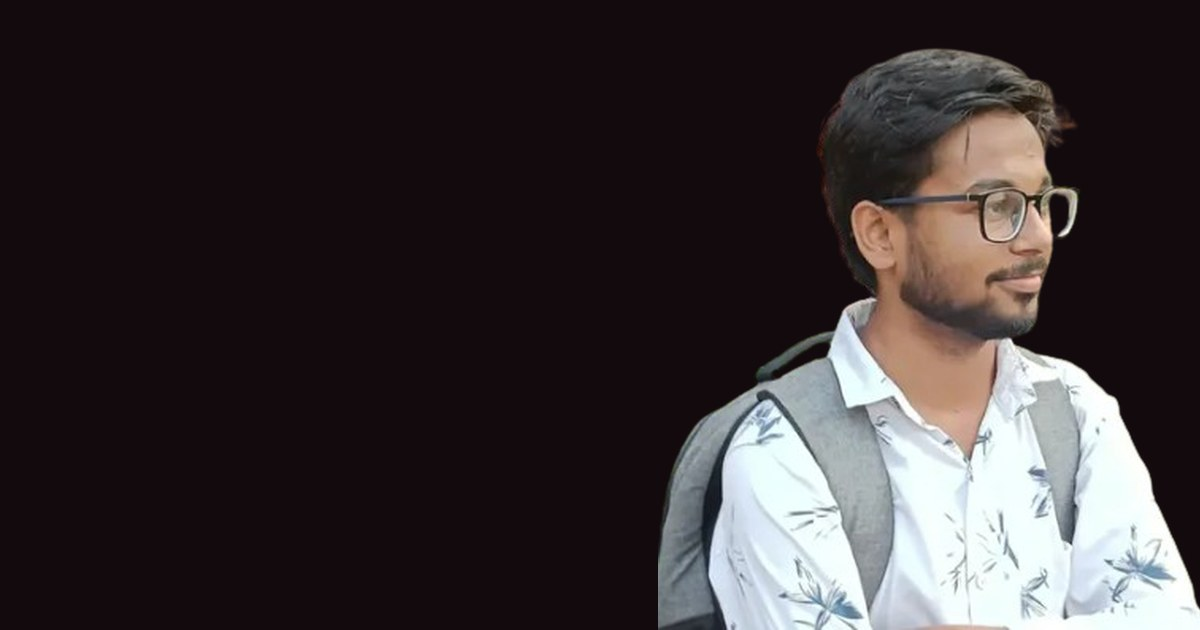
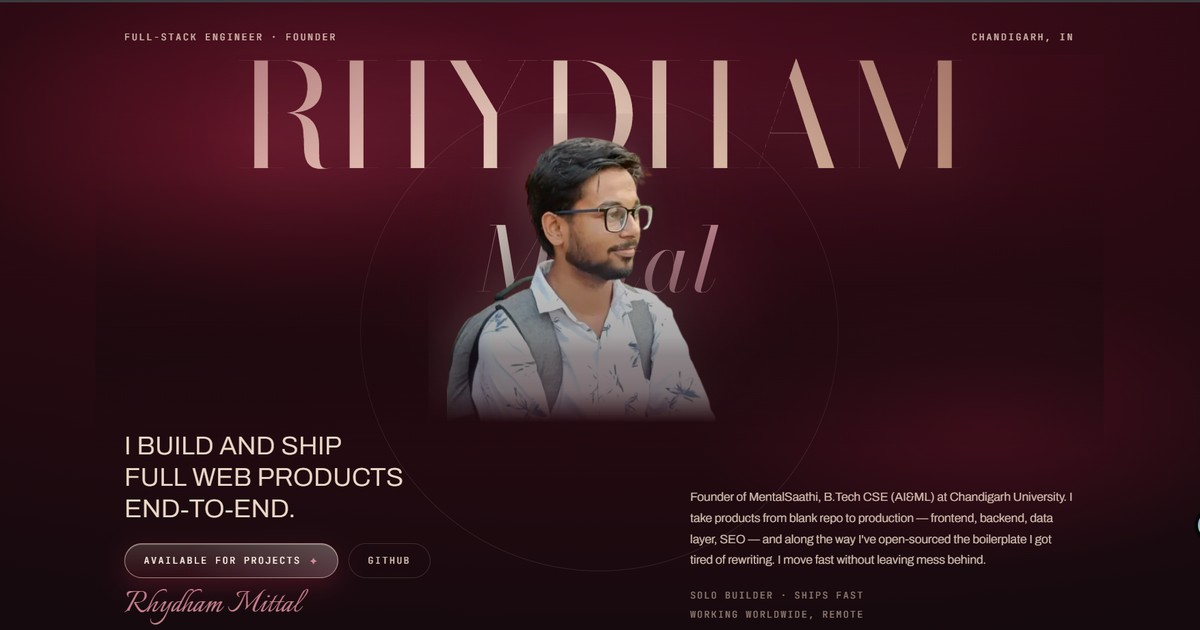
Top-notch SEO + performance pass, WhatsApp contact everywhere
- Replace all mailto: links with WhatsApp click-to-chat (wa.me) links
- Add ContactPoint (WhatsApp) and rel=me identity links to structured data
- Preload + fetchpriority=high on the LCP hero image, explicit width/height on all images to prevent CLS
- Lazy-load below-the-fold images, compress MentalSaathi/CollabFluenz screenshots from ~2MB/430KB PNGs to ~45KB JPEGs
- Add llms.txt for AI search crawlers, update OG share image to the real hero screenshot

diff --git a/index.html b/index.html
@@ -56,6 +56,12 @@
     "@type": "CollegeOrUniversity",
     "name": "Chandigarh University"
   },
+  "contactPoint": {
+    "@type": "ContactPoint",
+    "contactType": "sales",
+    "url": "https://wa.me/917657971009",
+    "availableLanguage": ["English", "Hindi"]
+  },
   "sameAs": [
     "https://github.com/rhydham-mittal27",
     "https://linkedin.com/in/rhydhammittal27"
@@ -67,6 +73,7 @@
 <link rel="preconnect" href="https://fonts.googleapis.com" />
 <link rel="preconnect" href="https://fonts.gstatic.com" crossorigin="" />
 <link href="https://fonts.googleapis.com/css2?family=Bodoni+Moda:ital,opsz,wght@0,6..96,400;0,6..96,500;1,6..96,400&family=Archivo:wght@300;400;500;600&family=Italianno&family=JetBrains+Mono:wght@400&display=swap" rel="stylesheet" />
+<link rel="preload" as="image" href="assets/rhydham-hero.png" fetchpriority="high">
 <style>
   * { box-sizing: border-box; }
   html, body { margin: 0; padding: 0; }
@@ -143,7 +150,7 @@
 
       <div style="position:relative;height:clamp(260px,38vw,430px);margin-top:clamp(6px,1vw,14px)">
         <div data-sd="" aria-hidden="true" style="position:absolute;left:50%;bottom:-6%;transform:translateX(-50%);width:min(620px,74%);height:86%;border-radius:50%;background:radial-gradient(50% 50% at 50% 55%, rgba(233,168,178,0.42) 0%, rgba(150,34,62,0.28) 42%, transparent 74%);filter:blur(22px);z-index:2;animation:glowPulse 7s ease-in-out infinite"></div>
-        <img src="assets/rhydham-hero.png" alt="Rhydham Mittal" class="portrait-img" />
+        <img src="assets/rhydham-hero.png" alt="Rhydham Mittal, full-stack engineer" class="portrait-img" width="392" height="397" fetchpriority="high" decoding="async" />
         <div aria-hidden="true" style="position:absolute;top:0;bottom:calc(-1 * clamp(18px,3vw,34px));left:calc(-1 * clamp(18px,3vw,34px));right:calc(-1 * clamp(18px,3vw,34px));background:linear-gradient(180deg, rgba(74,13,30,0.2) 0%, rgba(21,10,14,0) 30%, rgba(18,10,13,0.42) 76%, rgba(18,10,13,0.22) 90%, rgba(18,10,13,0) 100%);z-index:4;pointer-events:none"></div>
         <h1 data-sd="" class="hero-title" style="position:absolute;left:0;right:0;top:0;margin:0;z-index:2;font-family:'Bodoni Moda',serif;font-weight:400;font-size:clamp(56px,13.2vw,168px);line-height:0.86;letter-spacing:-0.01em;text-align:center;background:linear-gradient(104deg,#b98b74 0%,#f6e3d2 22%,#fffaf4 34%,#e9c6ab 48%,#c98e8f 66%,#f4ddc9 82%,#b0806c 100%);background-size:260% 100%;-webkit-background-clip:text;background-clip:text;color:transparent;-webkit-text-fill-color:transparent;animation:sheen 9s linear infinite, sdTitleOut linear both;animation-timeline:auto, scroll(root);animation-range:normal, 0 72vh;filter:drop-shadow(0 10px 40px rgba(214,138,155,0.28))">RHYDHAM<br /><span style="font-style:italic;font-size:0.62em;letter-spacing:0.02em;background:linear-gradient(112deg,#f6dfd0 0%,#fffaf4 26%,#e2a7b1 58%,#c07c8c 100%);-webkit-background-clip:text;background-clip:text;-webkit-text-fill-color:transparent;color:transparent">Mittal</span></h1>
       </div>
@@ -152,8 +159,8 @@
         <div>
           <p style="margin:0;font-size:clamp(19px,2.5vw,30px);line-height:1.22;letter-spacing:0.01em;color:#eddac9;text-transform:uppercase;text-wrap:pretty">I build and ship<br />full web products<br />end&#8209;to&#8209;end.</p>
           <div style="display:flex;flex-wrap:wrap;gap:12px;margin-top:clamp(14px,2vw,22px)">
-            <a href="mailto:rhydham937@gmail.com" class="hero-btn" style="position:relative;overflow:hidden;display:inline-flex;align-items:center;gap:10px;border:1px solid rgba(240,214,196,0.55);border-radius:999px;padding:12px 22px;font-family:'JetBrains Mono',monospace;font-size:11px;letter-spacing:0.16em;color:#fdf1e6;background:linear-gradient(100deg,rgba(255,255,255,0) 0%,rgba(255,255,255,0.22) 42%,rgba(255,255,255,0) 68%),linear-gradient(180deg,rgba(255,232,214,0.16),rgba(92,17,35,0.35));background-size:220% 100%,100% 100%;box-shadow:inset 0 1px 0 rgba(255,245,235,0.35),0 10px 28px rgba(150,34,62,0.35);animation:sheen 4.5s linear infinite;transition:box-shadow .4s,transform .4s">AVAILABLE FOR PROJECTS <span style="color:#d98a9b">&#10022;</span></a>
-            <a href="https://github.com/rhydham-mittal27" class="gh-btn" style="display:inline-flex;align-items:center;border:1px solid rgba(227,201,182,0.18);border-radius:999px;padding:12px 22px;font-family:'JetBrains Mono',monospace;font-size:11px;letter-spacing:0.16em;color:rgba(238,216,199,0.9)">GITHUB</a>
+            <a href="https://wa.me/917657971009?text=Hi%20Rhydham%2C%20I%20found%20your%20portfolio%20and%20I%27d%20like%20to%20talk%20about%20a%20project." target="_blank" rel="noopener" class="hero-btn" style="position:relative;overflow:hidden;display:inline-flex;align-items:center;gap:10px;border:1px solid rgba(240,214,196,0.55);border-radius:999px;padding:12px 22px;font-family:'JetBrains Mono',monospace;font-size:11px;letter-spacing:0.16em;color:#fdf1e6;background:linear-gradient(100deg,rgba(255,255,255,0) 0%,rgba(255,255,255,0.22) 42%,rgba(255,255,255,0) 68%),linear-gradient(180deg,rgba(255,232,214,0.16),rgba(92,17,35,0.35));background-size:220% 100%,100% 100%;box-shadow:inset 0 1px 0 rgba(255,245,235,0.35),0 10px 28px rgba(150,34,62,0.35);animation:sheen 4.5s linear infinite;transition:box-shadow .4s,transform .4s">AVAILABLE FOR PROJECTS <span style="color:#d98a9b">&#10022;</span></a>
+            <a href="https://github.com/rhydham-mittal27" rel="me" class="gh-btn" style="display:inline-flex;align-items:center;border:1px solid rgba(227,201,182,0.18);border-radius:999px;padding:12px 22px;font-family:'JetBrains Mono',monospace;font-size:11px;letter-spacing:0.16em;color:rgba(238,216,199,0.9)">GITHUB</a>
           </div>
           <div style="font-family:Italianno,cursive;font-size:clamp(30px,4vw,44px);color:#c9808f;margin-top:10px;line-height:1">Rhydham Mittal</div>
         </div>
@@ -183,7 +190,7 @@
             </div>
           </div>
           <div style="aspect-ratio:4/3;overflow:hidden;border-radius:2px;box-shadow:inset 0 1px 0 rgba(255,245,235,0.18);position:relative">
-            <img src="assets/mentalsaathi-screenshot.png" alt="MentalSaathi homepage" style="width:100%;height:100%;object-fit:cover;object-position:top center;filter:saturate(1.05) contrast(1.03)" />
+            <img src="assets/mentalsaathi-screenshot.jpg" alt="MentalSaathi peer-support wellness platform homepage screenshot" width="960" height="478" loading="lazy" decoding="async" style="width:100%;height:100%;object-fit:cover;object-position:top center;filter:saturate(1.05) contrast(1.03)" />
             <div aria-hidden="true" style="position:absolute;inset:0;background:linear-gradient(180deg,rgba(18,10,13,0) 60%,rgba(18,10,13,0.55) 100%)"></div>
             <span style="position:absolute;left:10px;bottom:8px;font-family:'JetBrains Mono',monospace;font-size:10px;letter-spacing:0.12em;color:rgba(240,222,208,0.85)">MENTALSAATHI.IN</span>
           </div>
@@ -205,7 +212,7 @@
             </div>
           </div>
           <div style="aspect-ratio:4/3;overflow:hidden;border-radius:2px;box-shadow:inset 0 1px 0 rgba(255,245,235,0.18);position:relative">
-            <img src="assets/collabfluenz-screenshot.png" alt="CollabFluenz admin dashboard" style="width:100%;height:100%;object-fit:cover;object-position:top center;filter:saturate(1.05) contrast(1.03)" />
+            <img src="assets/collabfluenz-screenshot.jpg" alt="CollabFluenz creator and brand marketplace admin dashboard screenshot" width="960" height="477" loading="lazy" decoding="async" style="width:100%;height:100%;object-fit:cover;object-position:top center;filter:saturate(1.05) contrast(1.03)" />
             <div aria-hidden="true" style="position:absolute;inset:0;background:linear-gradient(180deg,rgba(18,10,13,0) 60%,rgba(18,10,13,0.55) 100%)"></div>
             <span style="position:absolute;left:10px;bottom:8px;font-family:'JetBrains Mono',monospace;font-size:10px;letter-spacing:0.12em;color:rgba(240,222,208,0.85)">ADMIN DASHBOARD</span>
           </div>
@@ -382,17 +389,17 @@
       <div>
         <h2 style="margin:0;font-family:'Bodoni Moda',serif;font-weight:400;font-size:clamp(30px,5vw,58px);line-height:1.02;background:linear-gradient(120deg,#fffaf4 0%,#f0d8c2 40%,#d89aa6 100%);-webkit-background-clip:text;background-clip:text;color:transparent;-webkit-text-fill-color:transparent;text-wrap:pretty">Got something<br />that needs<br /><span style="font-family:Italianno,cursive;font-size:1.25em;color:#d9a3ad">building?</span></h2>
         <p style="margin:16px 0 0;font-size:14px;line-height:1.75;color:rgba(238,216,199,0.88);max-width:34ch;text-wrap:pretty">Open for freelance builds &mdash; SaaS apps, startup MVPs, AI-flavoured tooling, landing pages that actually rank.</p>
-        <a href="mailto:rhydham937@gmail.com" class="contact-btn" style="display:inline-flex;align-items:center;gap:10px;margin-top:22px;border:1px solid rgba(240,214,196,0.6);border-radius:999px;padding:14px 26px;font-family:'JetBrains Mono',monospace;font-size:11px;letter-spacing:0.16em;color:#fdf1e6;background:linear-gradient(100deg,rgba(255,255,255,0) 0%,rgba(255,255,255,0.26) 44%,rgba(255,255,255,0) 70%),linear-gradient(180deg,rgba(255,232,214,0.18),rgba(92,17,35,0.4));background-size:220% 100%,100% 100%;box-shadow:inset 0 1px 0 rgba(255,245,235,0.4),0 12px 34px rgba(150,34,62,0.4);animation:sheen 4.5s linear infinite">START A PROJECT <span>&#10230;</span></a>
+        <a href="https://wa.me/917657971009?text=Hi%20Rhydham%2C%20I%27d%20like%20to%20start%20a%20project." target="_blank" rel="noopener" class="contact-btn" style="display:inline-flex;align-items:center;gap:10px;margin-top:22px;border:1px solid rgba(240,214,196,0.6);border-radius:999px;padding:14px 26px;font-family:'JetBrains Mono',monospace;font-size:11px;letter-spacing:0.16em;color:#fdf1e6;background:linear-gradient(100deg,rgba(255,255,255,0) 0%,rgba(255,255,255,0.26) 44%,rgba(255,255,255,0) 70%),linear-gradient(180deg,rgba(255,232,214,0.18),rgba(92,17,35,0.4));background-size:220% 100%,100% 100%;box-shadow:inset 0 1px 0 rgba(255,245,235,0.4),0 12px 34px rgba(150,34,62,0.4);animation:sheen 4.5s linear infinite">START A PROJECT <span>&#10230;</span></a>
       </div>
       <div style="display:flex;flex-direction:column;gap:14px;font-family:'JetBrains Mono',monospace;font-size:11.5px;letter-spacing:0.12em">
-        <div style="border-top:1px solid rgba(227,201,182,0.2);padding-top:12px"><a href="mailto:rhydham937@gmail.com">RHYDHAM937@GMAIL.COM</a></div>
+        <div style="border-top:1px solid rgba(227,201,182,0.2);padding-top:12px"><a href="https://wa.me/917657971009?text=Hi%20Rhydham%2C%20I%27d%20like%20to%20get%20in%20touch." target="_blank" rel="noopener">WHATSAPP &#10230;</a></div>
         <div style="border-top:1px solid rgba(227,201,182,0.2);padding-top:12px"><a href="tel:+917657971009">+91 76579 71009</a></div>
-        <div style="border-top:1px solid rgba(227,201,182,0.2);padding-top:12px"><a href="https://linkedin.com/in/rhydhammittal27">LINKEDIN &#10230;</a></div>
-        <div style="border-top:1px solid rgba(227,201,182,0.2);padding-top:12px"><a href="https://github.com/rhydham-mittal27">GITHUB &#10230;</a></div>
+        <div style="border-top:1px solid rgba(227,201,182,0.2);padding-top:12px"><a href="https://linkedin.com/in/rhydhammittal27" rel="me">LINKEDIN &#10230;</a></div>
+        <div style="border-top:1px solid rgba(227,201,182,0.2);padding-top:12px"><a href="https://github.com/rhydham-mittal27" rel="me">GITHUB &#10230;</a></div>
         <div style="border-top:1px solid rgba(227,201,182,0.2);padding-top:12px;color:rgba(227,201,182,0.55)">CHANDIGARH, INDIA &middot; REMOTE</div>
       </div>
       <div style="align-self:stretch;min-height:200px;overflow:hidden;border:1px solid rgba(227,201,182,0.2)">
-        <img src="assets/rhydham.jpg" alt="Rhydham Mittal" style="width:100%;height:100%;object-fit:cover;object-position:52% 28%;filter:grayscale(1) contrast(1.12) brightness(0.82)" />
+        <img src="assets/rhydham.jpg" alt="Rhydham Mittal portrait" width="1280" height="720" loading="lazy" decoding="async" style="width:100%;height:100%;object-fit:cover;object-position:52% 28%;filter:grayscale(1) contrast(1.12) brightness(0.82)" />
       </div>
       </div>
     </section>
